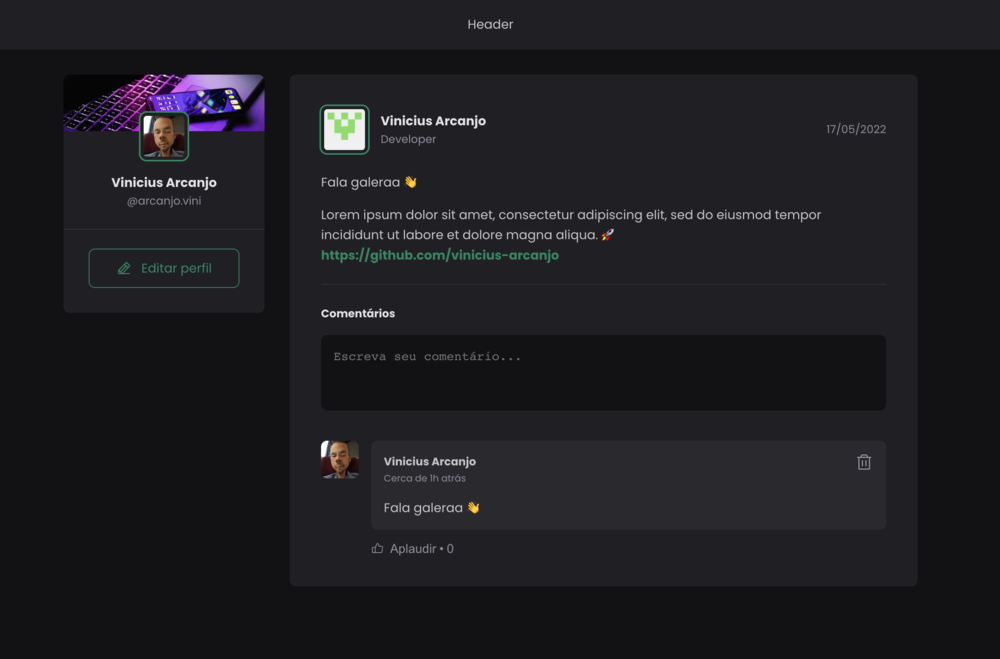
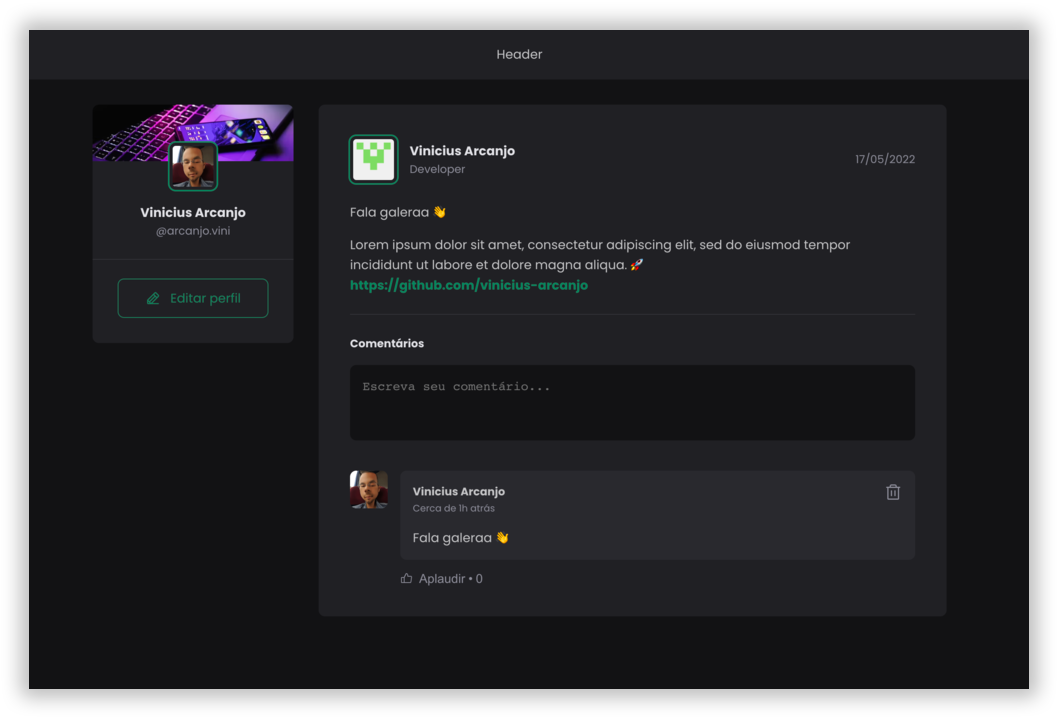
updated README.md

diff --git a/README.md b/README.md
@@ -3,7 +3,7 @@
 > You can access this project through the link: [Social Feed](https://social-feed-ark.vercel.app/)
 
 
-![Social Feed](https://raw.githubusercontent.com/vinicius-arcanjo/social-feed/1edaa9c4678b717f19f2d26f0fed02a1e9320999/screenshot.png)
+![Social Feed](screenshot.png)
 
 ## What is inside?
 
